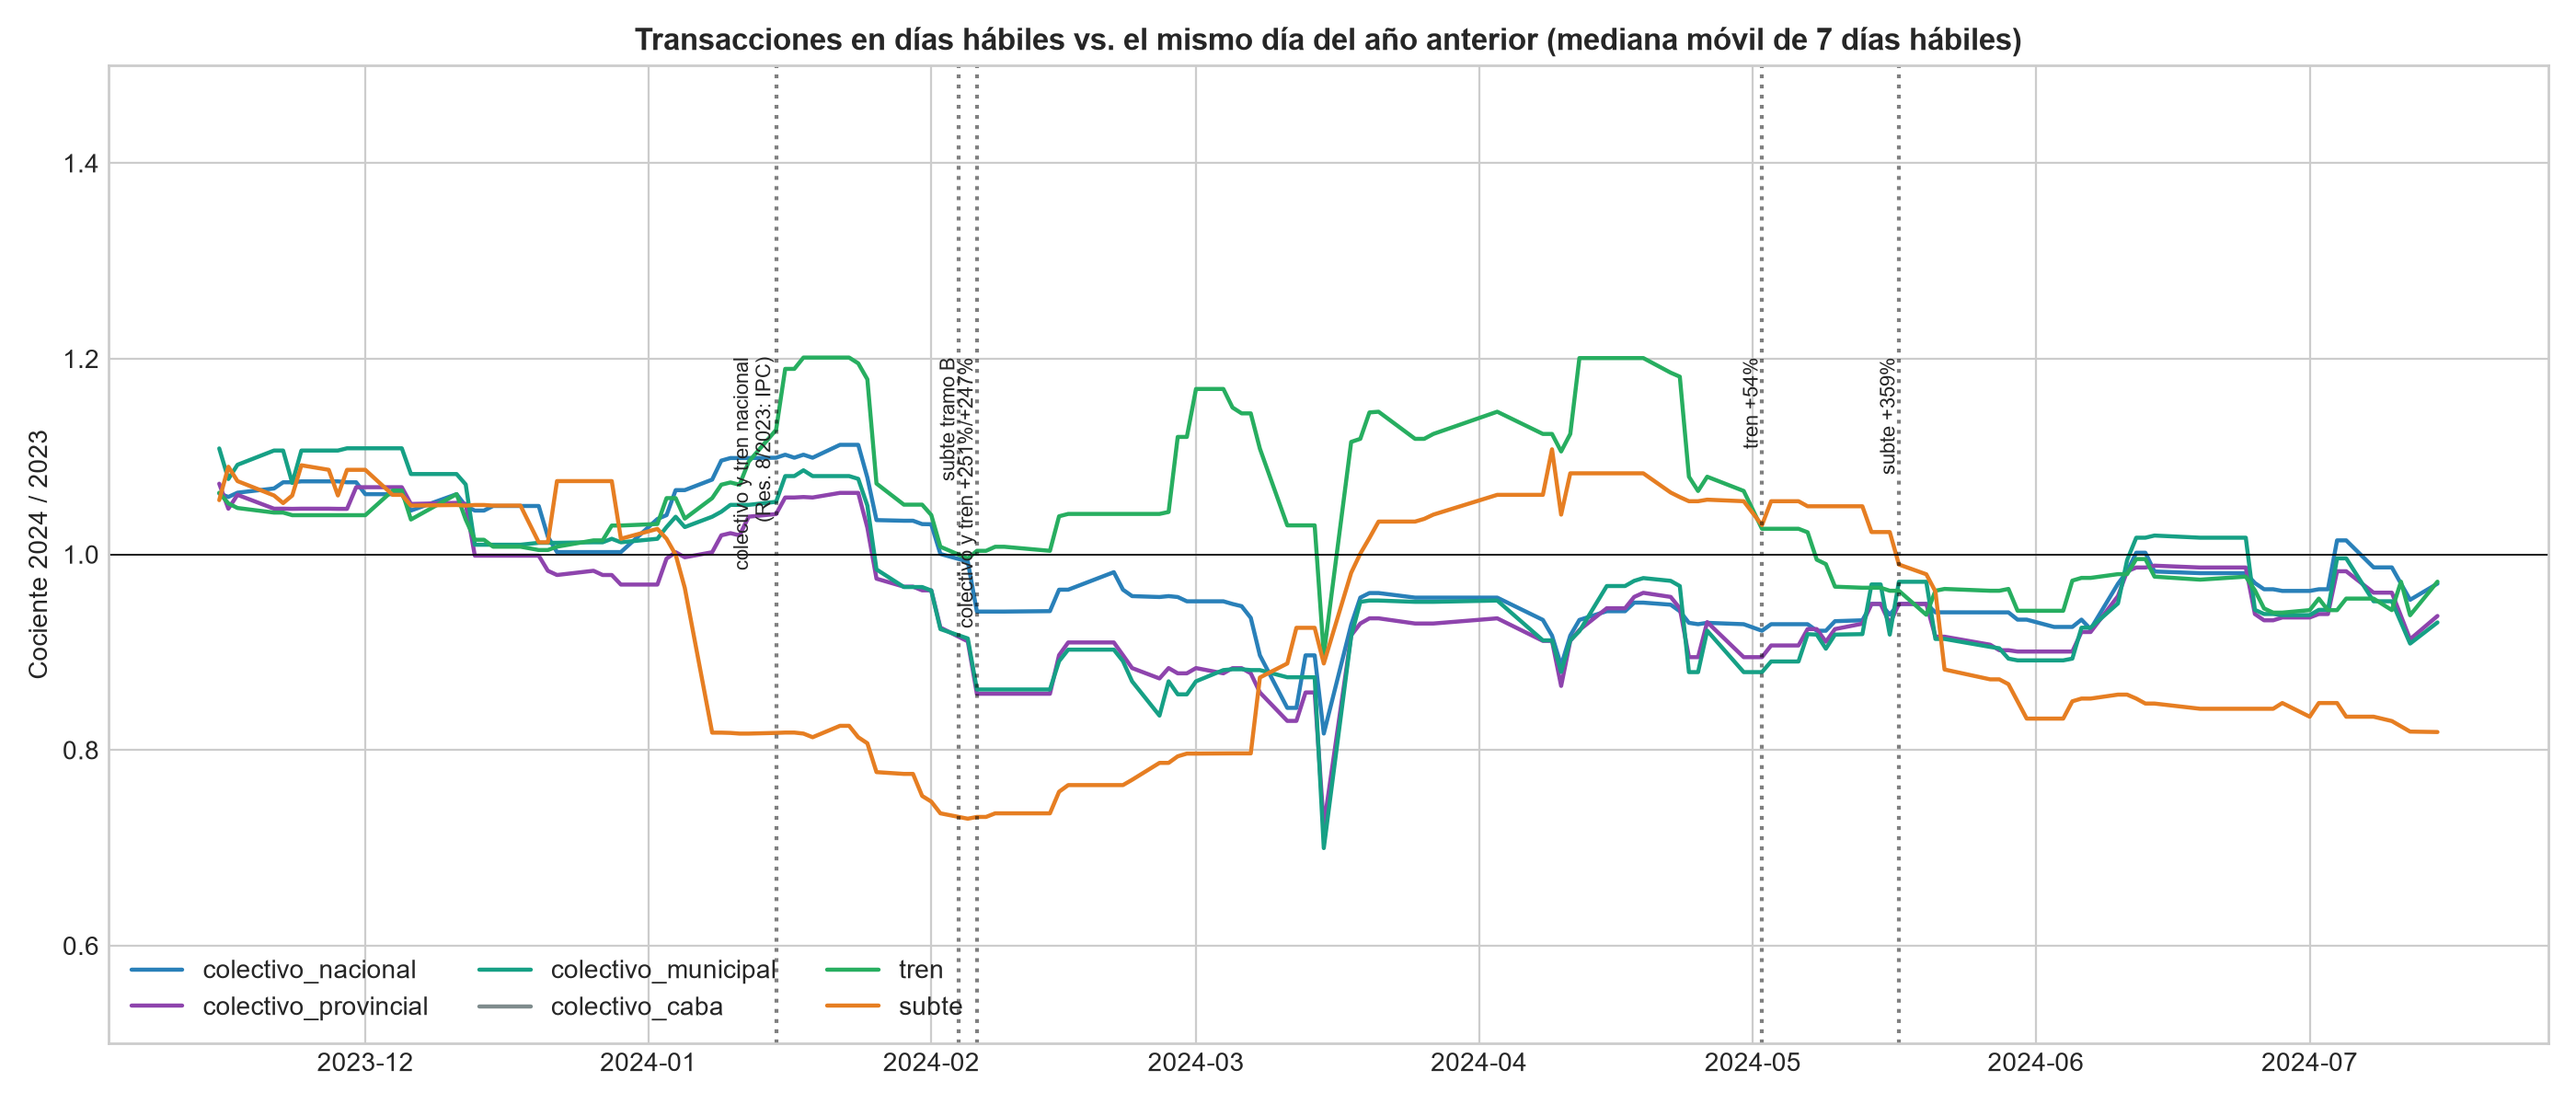
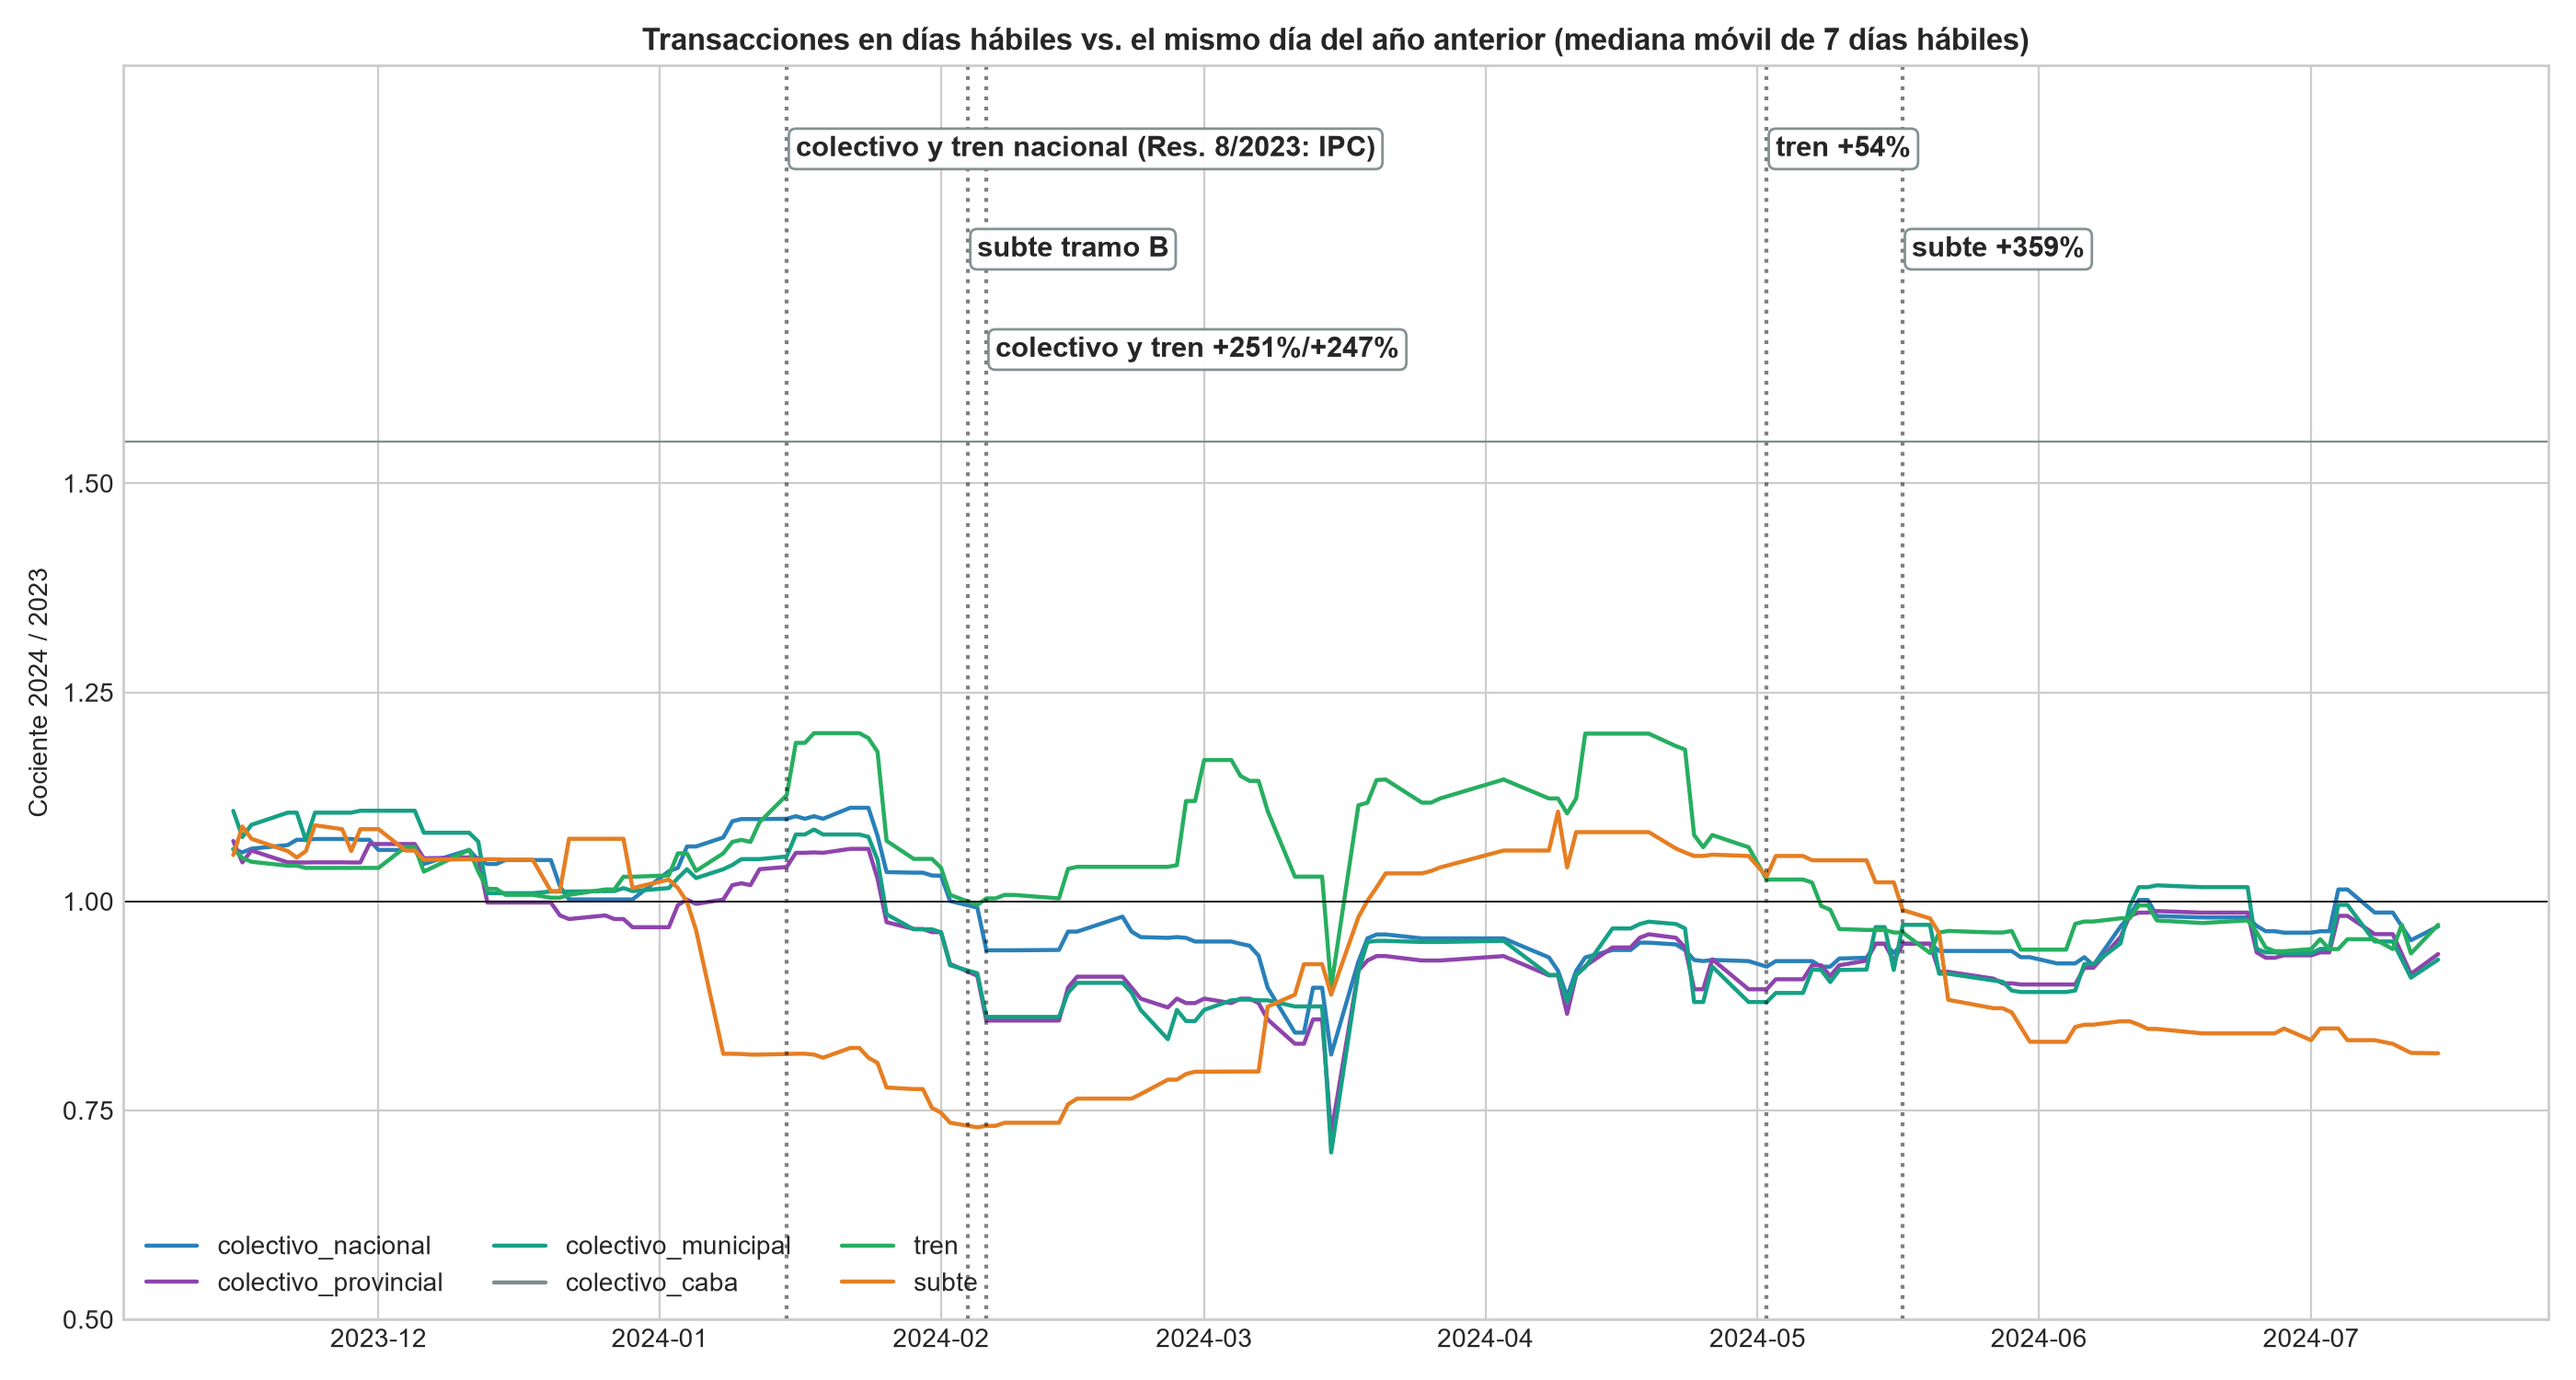
Informe: lectura de ACF/PACF en 4.1; figuras 18 y 22 mas legibles (etiquetas de saltos; simbolos por tipo de paro y eleccion)

diff --git a/scripts/hitos_efectos.py b/scripts/hitos_efectos.py
@@ -172,14 +172,27 @@ def main():
     fig, axs = plt.subplots(1, 3, figsize=(15, 5), sharey=True)
     for ax, m in zip(axs, MODOS):
         ax.axhspan(*lim[m], color='#bdc3c7', alpha=0.5, label='banda de días ordinarios')
-        for tipo, c, nom in [('feriado', '#16a085', 'feriado laborable'), ('eleccion', '#8e44ad', 'elección'), ('paro', '#c0392b', 'paro')]:
+        # feriados laborables, elecciones (con y sin gratuidad) y paros según quién paró
+        clases = [('feriado', None, '#16a085', 'o', 'feriado laborable', True),
+                  ('eleccion', 'con gratuidad', '#8e44ad', 's', 'elección con gratuidad', True),
+                  ('eleccion', 'sin gratuidad aparente', '#8e44ad', 's', 'elección sin gratuidad', False),
+                  ('paro', 'colectivo (UTA)', '#c0392b', '^', 'paro del colectivo (UTA)', True),
+                  ('paro', 'tren (La Fraternidad)', '#e67e22', 'v', 'paro del tren (La Fraternidad)', True),
+                  ('paro', 'tren y subte', '#d4ac0d', 'D', 'paro de tren y subte', True),
+                  ('paro', 'general (CGT)', '#1a1a1a', 'X', 'paro general (CGT)', True)]
+        for tipo, sub_, c, mk, nom, lleno in clases:
             g = t[t.tipo == tipo]
-            ax.scatter(pd.to_datetime(g['fecha']), g[m], s=26, color=c, label=nom, zorder=3)
+            if tipo == 'eleccion':      # la elección inferida del dato (balotaje) cuenta como con gratuidad
+                g = g[g.subtipo.str.startswith('con gratuidad')] if sub_ == 'con gratuidad' else g[g.subtipo == sub_]
+            elif sub_ is not None:
+                g = g[g.subtipo == sub_]
+            ax.scatter(pd.to_datetime(g['fecha']), g[m], s=60 if tipo != 'feriado' else 28, marker=mk, label=nom, zorder=3,
+                       facecolor=c if lleno else 'white', edgecolor=c, linewidth=1.6 if tipo != 'feriado' else 0.5)
         ax.set_title(m); ax.axhline(1, color='k', lw=0.6)
         ax.xaxis.set_major_locator(mdates.MonthLocator(bymonth=(1, 7)))
         ax.xaxis.set_major_formatter(mdates.DateFormatter('%m/%y'))
         ax.tick_params(axis='x', rotation=60, labelsize=8)
-    axs[0].set_ylabel('Cociente contra un día habitual'); axs[0].legend(fontsize=8)
+    axs[0].set_ylabel('Cociente contra un día habitual'); axs[0].legend(fontsize=7.5, loc='upper left')
     plt.suptitle('Demanda en días de feriado, elección y paro (cada punto es un día)', fontweight='bold')
     plt.tight_layout(); plt.savefig(os.path.join(FIG_DIR, 'fig17_hitos_cociente.png'), dpi=200); plt.close()
 

diff --git a/scripts/tarifas_descriptivo.py b/scripts/tarifas_descriptivo.py
@@ -73,15 +73,20 @@ def tabla(usos):
 
 
 def graficar(usos):
-    fig, ax = plt.subplots(figsize=(14, 6))
+    fig, ax = plt.subplots(figsize=(14, 7.5))
     for s in SERIES:
         r = razon_interanual(usos[s]).dropna().loc['2023-11-15':'2024-07-15']
         ax.plot(r.index, r.rolling(7, center=True, min_periods=3).median(), color=COLORES[s], lw=1.6, label=s)
-    for f, txt in FECHAS.items():
+    # las etiquetas de los saltos van arriba de la zona de datos (0,5 a 1,5), escalonadas y con letra grande
+    alturas = [1.90, 1.78, 1.66, 1.90, 1.78]
+    for (f, txt), y in zip(FECHAS.items(), alturas):
         ax.axvline(pd.Timestamp(f), color='k', ls=':', alpha=0.5)
-        ax.text(pd.Timestamp(f), ax.get_ylim()[1] * 0.98, txt, rotation=90, va='top', ha='right', fontsize=8)
+        ax.text(pd.Timestamp(f) + pd.Timedelta(days=1), y, txt.replace('\n', ' '), va='center', ha='left', fontsize=11, fontweight='bold',
+                bbox=dict(boxstyle='round,pad=0.25', facecolor='white', edgecolor='#7f8c8d', alpha=0.95), zorder=5)
     ax.axhline(1, color='k', lw=0.6)
-    ax.set_ylim(0.5, 1.5)
+    ax.set_ylim(0.5, 2.0)
+    ax.set_yticks([0.5, 0.75, 1.0, 1.25, 1.5])
+    ax.axhline(1.55, color='#7f8c8d', lw=0.8)
     ax.set_title('Transacciones en días hábiles vs. el mismo día del año anterior (mediana móvil de 7 días hábiles)', fontweight='bold')
     ax.set_ylabel('Cociente 2024 / 2023'); ax.legend(loc='lower left', ncol=3)
     plt.tight_layout(); plt.savefig(os.path.join(FIG_DIR, 'fig13_usos_yoy_tarifas_2024.png'), dpi=200); plt.close()

diff --git a/docs/Informe_final.md b/docs/Informe_final.md
@@ -110,9 +110,35 @@ La serie del total AMBA (media móvil de 7 días en los gráficos, para que no s
 
 ![Estacionalidad semanal y anual](../resultados/figuras/fig2_estacionalidad_y_correlacion.png)
 
-*Figura 2. Arriba, distribución de los usuarios por día de la semana (izquierda) y por mes del año (derecha) para cada modo, 2022–2026; la caja va del cuartil 25 al 75 y la línea interior es la mediana. Abajo, ACF y PACF de la serie con diferencia simple y estacional (se explican en 8.2).*
+*Figura 2. Arriba, distribución de los usuarios por día de la semana (izquierda) y por mes del año (derecha) para cada modo, 2022–2026; la caja va del cuartil 25 al 75 y la línea interior es la mediana. Abajo, ACF y PACF de la serie con diferencia simple y estacional (se explican abajo y se usan en 8.2).*
 
 **Qué muestra.** En el total AMBA, la mediana de un día hábil es de unos 3,7 a 3,9 millones de usuarios, la de un sábado 2,4 y la de un domingo 1,4: el fin de semana es un tercio a la mitad de un día hábil. Por mes, el promedio va de 2,4 millones en enero a 3,3 o 3,4 en septiembre y octubre; julio (3,0) y diciembre (2,9) muestran las vacaciones de invierno y de verano.
+
+#### Cómo se interpretan la ACF y la PACF (paneles inferiores de la figura 2)
+
+*Base teórica: Clase Forecasting, secciones "Determinación de los órdenes p y q en base a la ACF y la PACF" y "Forecasting ARIMA". Box y Jenkins (1970) es la referencia original del procedimiento.*
+
+**Qué son.** La **autocorrelación** de rezago k es la correlación entre la serie y ella misma k días antes: vale 1 en el rezago 0 (la serie consigo misma), cerca de 0 si el pasado a k días no informa nada del presente, y se acerca a ±1 si lo informa mucho. La **ACF** (función de autocorrelación) la muestra para cada rezago. La **PACF** (autocorrelación parcial) muestra, para cada rezago k, la correlación que queda entre la serie y su valor k días antes **después de descontar lo que ya explican los rezagos intermedios** (1, 2, …, k − 1): es el aporte propio de cada rezago. En el gráfico, cada barra vertical es un rezago (eje horizontal, en días) y su altura es la correlación (eje vertical, de −1 a 1). La **zona celeste** es la banda de confianza de 95% para una serie sin autocorrelación (aproximadamente ±1,96/√n, con n el número de datos): una barra que sobresale de la banda es una autocorrelación significativa; una que queda adentro no se distingue de cero.
+
+**Qué lecturas se extraen.** Se buscan cuatro cosas:
+
+| Qué se observa | Qué indica | Qué se hace con eso |
+|---|---|---|
+| Barras que **decaen muy lento** en la ACF (todas altas y positivas) | La serie tiene tendencia o saltos de nivel: no es estacionaria | Diferenciar (4.2) |
+| **Picos en los múltiplos de un período** (7, 14, 21…) | Estacionalidad de ese período (aquí, semanal) | Diferencia estacional o términos estacionales |
+| ACF que se **corta** tras q rezagos y PACF que **decae** gradualmente | Estructura de **media móvil** de orden q (MA) | Incluir q términos de media móvil |
+| PACF que se **corta** tras p rezagos y ACF que **decae** gradualmente | Estructura **autorregresiva** de orden p (AR) | Incluir p términos autorregresivos |
+| Barras que **casi todas** quedan dentro de la banda | No queda estructura temporal por modelar (ruido blanco) | Es lo que se busca en los **residuos** de un modelo |
+
+(Si las dos decaen gradualmente, el modelo suele necesitar términos de ambos tipos: ARMA.) Es una guía, no una regla exacta: con cientos de rezagos, alrededor de 5% de las barras sobresale de la banda solo por azar, y las lecturas ambiguas se resuelven comparando modelos con criterios de información (8.2).
+
+**Cómo se lee la figura 2.** Los paneles inferiores corresponden al total AMBA ya diferenciado con **una diferencia simple y una estacional** (∇₁∇₇, ver 4.2), no a la serie original. Aproximando los valores desde el gráfico: en la ACF hay una barra negativa en el rezago 1 (alrededor de −0,35), otra más negativa en el rezago 7 (alrededor de −0,49), una positiva en el rezago 8 (+0,21) y casi todo lo demás dentro de la banda; en la PACF las barras de los rezagos 1 a 4 son negativas (−0,35 a −0,18), hay una marcada en el rezago 7 (−0,42) y otras más chicas en los múltiplos de 7 (−0,25 en el 14).
+
+- **Rezago 7 (−0,49).** Restar la semana anterior a una serie con ciclo semanal estable deja un residuo semanal con correlación negativa de ese rezago: es la señal típica de un término de **media móvil estacional** (SMA, de orden 1).
+- **Rezago 1 negativo y rezagos 1 a 4 negativos en la PACF.** Es la huella de la **sobrediferenciación** que se midió en 4.2: la diferencia simple, agregada sobre una serie que ya era estacionaria después de la diferencia estacional, introduce una correlación negativa en el rezago 1. Por eso el modelo de P-2 usa solo la diferencia estacional (d = 0, D = 1) y el orden se identifica en 8.2 con ese gráfico, no con este.
+- **Pocas barras fuera de la banda a partir del rezago 9.** No hay otro ciclo fuerte en los datos diferenciados: el ciclo semanal quedó removido y no se observa un patrón sistemático adicional.
+
+**Conclusión.** Estos dos gráficos sirven para dos cosas: confirmar que existe **estacionalidad semanal** (picos en el rezago 7 y sus múltiplos) y fundamentar las **diferencias** elegidas; el orden del modelo ARIMA se decide después, con la serie diferenciada que usa el modelo (8.2).
 
 ### 4.2 Estacionariedad y diferenciación (ADF, KPSS)
 
@@ -690,7 +716,7 @@ Si el resultado cambia mucho (en signo o tamaño) entre las dos versiones, el pa
 
 ![Razón interanual de usos en 2024](../resultados/figuras/fig13_usos_yoy_tarifas_2024.png)
 
-*Figura 18. Razón entre los usos de días hábiles de 2024 y los del mismo día de 2023, por modo, con los saltos tarifarios marcados.*
+*Figura 18. Razón entre los usos de días hábiles de 2024 y los del mismo día de 2023, por modo, con los saltos tarifarios marcados (las etiquetas están arriba del área de datos, en recuadros escalonados).*
 
 ![Estudio de eventos](../resultados/figuras/fig14_estudio_eventos.png)
 
@@ -842,7 +868,9 @@ Si el resultado cambia mucho (en signo o tamaño) entre las dos versiones, el pa
 
 ![Cociente por tipo de hito](../resultados/figuras/fig17_hitos_cociente.png)
 
-*Figura 22. Cociente de la demanda de cada día de hito respecto de lo habitual, por modo, contra la banda de días ordinarios.*
+*Figura 22. Cociente de la demanda de cada día de hito respecto de lo habitual, por modo, contra la banda de días ordinarios. Cada símbolo es un tipo de día: círculo, feriado laborable; cuadrado lleno, elección con gratuidad (incluye el balotaje inferido del dato); cuadrado vacío, elección sin gratuidad; triángulo hacia arriba, paro del colectivo (UTA); triángulo hacia abajo, paro del tren (La Fraternidad); rombo, paro de tren y subte; cruz, paro general (CGT).*
+
+**Cómo leer la figura 22 por tipo.** Los cuadrados llenos (elección con gratuidad) están pegados a 0 en los tres modos, mientras que los vacíos (sin gratuidad) quedan entre 0,5 y 1,1, es decir, mucho más cerca de lo habitual: la gratuidad, y no la elección en sí, es lo que vacía el transporte. Entre los paros, el modo que paró cae cerca de 0 (triángulos rojos en el colectivo, entre 0,09 y 0,20 en los tres casos; triángulo naranja y rombo en el tren, en 0; cruces en los paros generales), y un modo que no paró queda más arriba: los paros del colectivo (triángulos rojos) dejan al subte en 1,0, dentro de la banda ordinaria, y al tren entre 0,66 y 0,79 (caída parcial). Las dos cruces del colectivo en 0,62 son el primer paro general (24 de enero de 2024) y el del 10 de abril de 2025; en este último la UTA no adhirió y el colectivo igual cayó a 0,62 (otros factores de ese día, sin explicación comprobada). La tabla de la figura 23 da los números por tipo.
 
 | tipo | modo | dias | mediana_cociente | minimo | maximo | banda_ruido_inf | banda_ruido_sup | pct_fuera_de_banda |
 |---|---|---|---|---|---|---|---|---|
